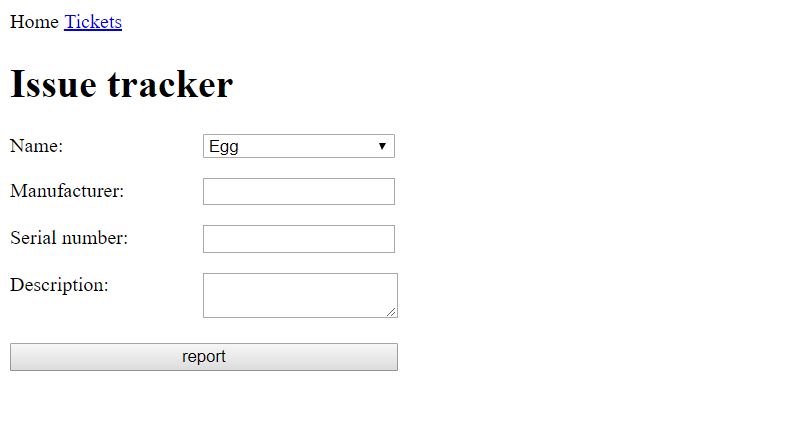
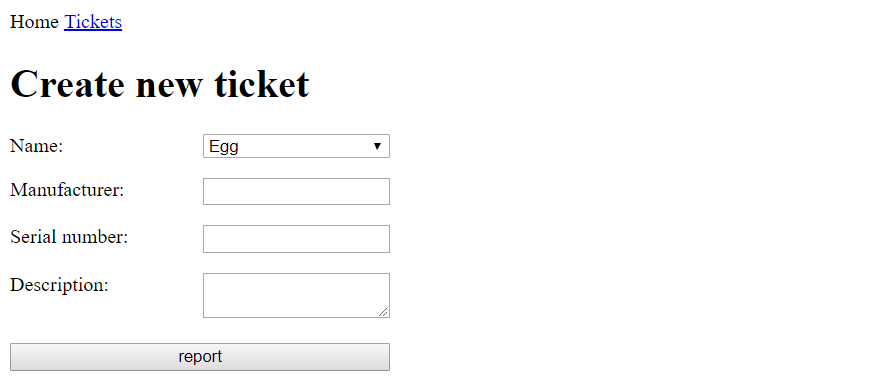
refact(description cosmetics, new pictures, remove issue term as alternative to the ticket)

diff --git a/javascript.md b/javascript.md
@@ -26,7 +26,7 @@ It is built up from:
      -  input field to set the manufacturer
      -  input field to set the serial number
      -  textarea to set the description
-     -  a REPORT button which should start an AJAX call to the `/issues` endpoint with the form data
+     -  a REPORT button which should start an AJAX call to the `/tickets` endpoint with the form data
 
 #### Tickets (tickets.html)
 
@@ -37,11 +37,11 @@ It is built up from:
  -  a navigation bar, with a link to the home screen
  -  a heading with the title of the page
  -  a table to display all the tickets from the database
-     -  In the last column you should render a delete button which will remove the ticket permanently (also from the database)
+    -  In the last column you should render a delete button which will remove the ticket permanently (also from the database)
 
 ### Backend
 
-The backend should handle all the issue related http requests and serve the static content for the application.
+The backend should handle all the ticket related http requests and serve the static content to the application.
 
 #### Static content
 
@@ -49,17 +49,45 @@ All the static files should be served from a dedicated folder (eg.: public, clie
 
 #### Endpoints
 
-##### GET `/issues`
+##### GET `/users`
 
-This endpoint should be responsible to list the issues from the database.
+This endpoint is used to list all the available users
 
- -  if there is no query parameter, the backend must send all the issues.
- -  if there is a manufacturer query parameter, the backend must filter only the issues with the given manufacturer
- -  if there is a user_id query parameter, the backend must filter only the the issues which are reported by the given user.
+Example query:
 
- Example query:
+[GET] `http://localhost:8080/users`
 
-`http://localhost:8080/issues?manufacturer=dell`
+ -  this should return a json with the users collected from the database
+
+```json
+{
+    "users":
+    [
+        {
+            "id" : "1",
+            "name" : "Egg"
+        },
+        {
+            "id" : "2",
+            "name" : "Tom"
+        },
+        ...
+    ]
+}
+```
+
+##### GET `/tickets`
+
+This endpoint should be responsible to list the tickets from the database.
+
+ -  if there is no query parameter, the backend must send all the tickets
+ -  if there is a manufacturer query parameter, the backend must filter only the tickets with the given manufacturer
+ -  if there is a reporter query parameter, the backend must filter only the the tickets which are reported by the given user
+ -  the manufacturer and reporter query parameters can be mixed
+
+Example query:
+
+[GET] `http://localhost:8080/tickets?manufacturer=dell`
 
  -  this should return a json with every ticket where the manufacturer is "dell"
 
@@ -87,16 +115,16 @@ This endpoint should be responsible to list the issues from the database.
 }
 ```
 
-`http://localhost:8080/issues?reporter=1`
+[GET] `http://localhost:8080/tickets?reporter=1`
 
  -  this should return a json with every ticket where the reporter's id is 1
 
 
-`http://localhost:8080/issues`
+[GET] `http://localhost:8080/tickets`
 
  -  this should return a json with all the tickets from the database
 
-##### POST `/issues`
+##### POST `/tickets`
 
 This endpoint should:
 
@@ -104,12 +132,43 @@ This endpoint should:
     -  reporter is a number
     -  manufacturer is set
     -  serial number is set
- -  supplement the issue with the current date
- -  save the issue into database if the reporter's name is valid
+ -  supplement the ticket with the current date
+ -  save the ticket into database
+ -  set the status code to 400 if the validation failed
+ -  set the status code to 500 if any database error has occured
 
-##### DELETE `/issues/:id`
+Example query:
 
-This endpoint should delete the specified ticket if the request's header contains the Authorization `HTTP header` with the value of 'voala'
+[POST] `http://localhost:8080/tickets`
+
+ -  this should return a json with the newly created ticket
+
+```json
+{
+    "id" : "22",
+    "reporter" : "Brian",
+    "manufacturer" : "dell",
+    "serialNumber" : 123481639,
+    "description" : "keyboard is not working",
+    "date" : "2018.01.29"
+}
+```
+
+##### DELETE `/tickets/:id`
+
+It deletes the specified ticket if the request's header contains the Authorization `HTTP header` with the value of 'voala'. The endpoint should:
+
+ -  validate the header
+    -  if authorization header is missing it should return an empty response with a 401 status code
+ -  delete the ticket from the database
+ -  return an empty response with a 204 status code
+ -  return an empty response with a 500 status code if any error has occured
+
+Example query:
+
+[DELETE] `http://localhost:8080/tickets/12`
+
+ -  this should return an empty response, with a 204 status code
 
 ## 2) Question time
 
